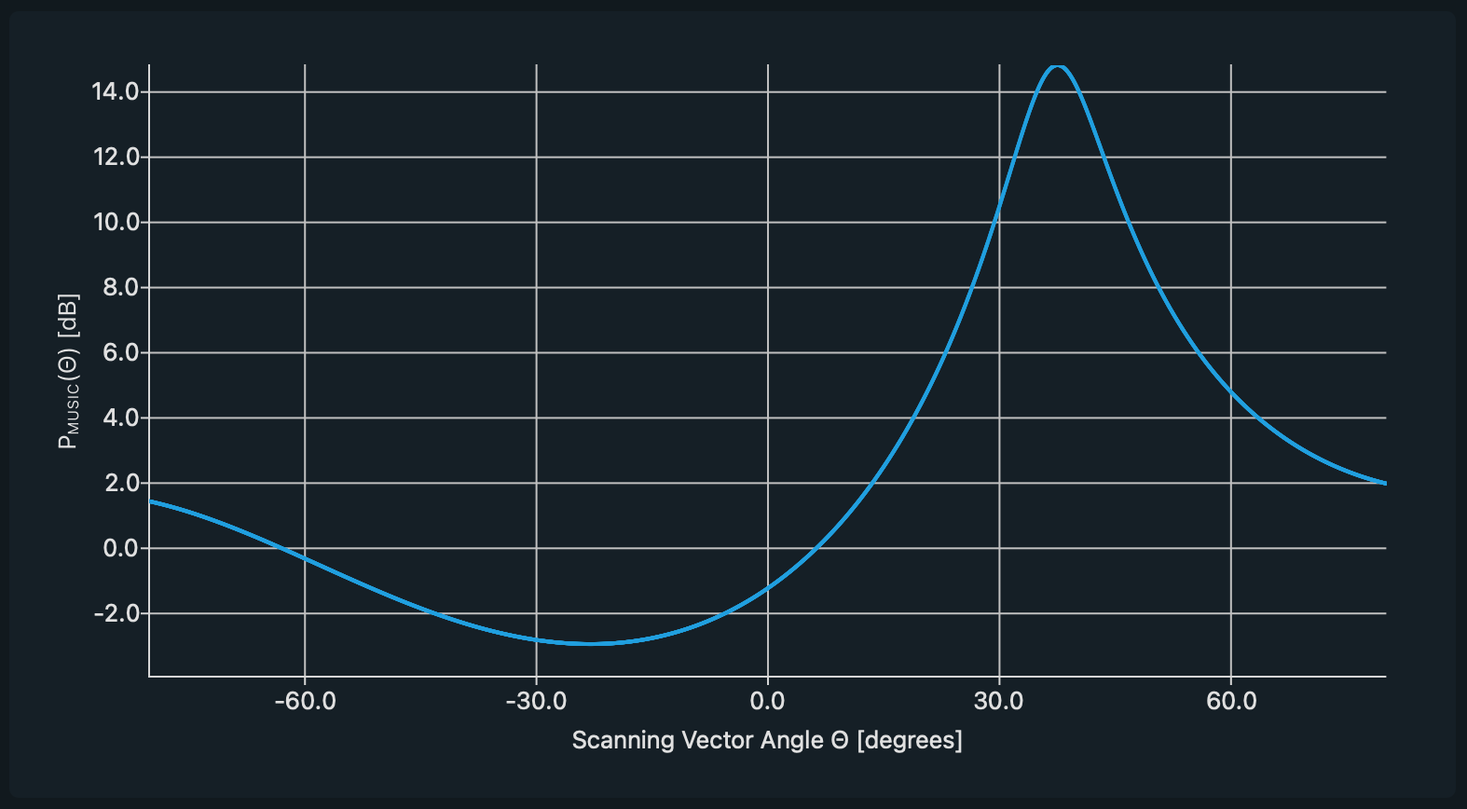
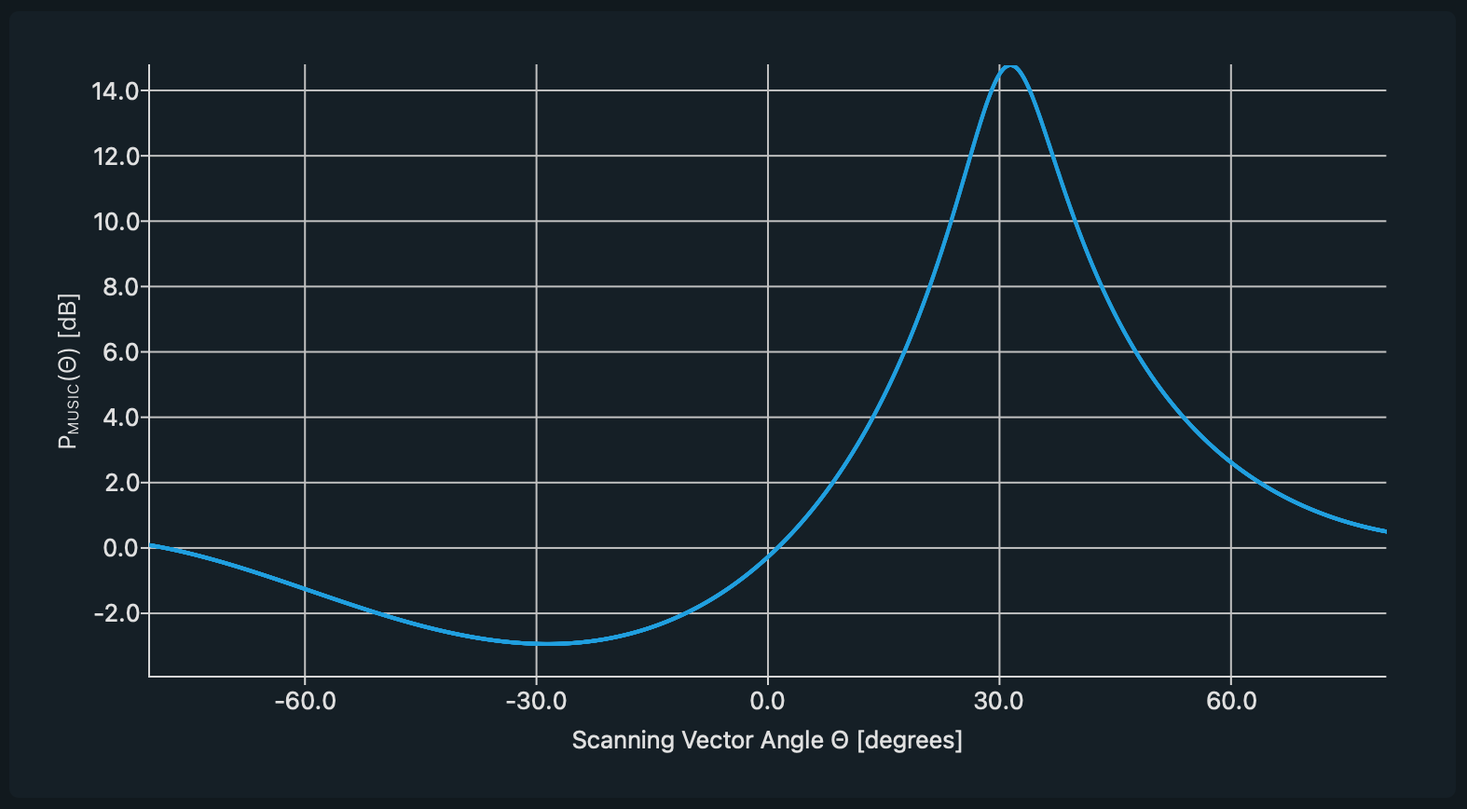
New Measurement

Changed region(s): [[0.0934, 0.0622, 0.9339, 0.8088]]

diff --git a/matlab/music_125MHz_M256_1m_30deg/cfr.m b/matlab/music_125MHz_M256_1m_30deg/cfr.m
@@ -1,116 +1,116 @@
 % Auto-generated MATLAB script
 clear;
-CH0_4516 = [ ...
+CH0_4514 = [ ...
 0 + 1i*0, 0 + 1i*0, 0 + 1i*0, 0 + 1i*0, 0 + 1i*0,  ...
 0 + 1i*0, 0 + 1i*0, 0 + 1i*0, 0 + 1i*0, 0 + 1i*0,  ...
 0 + 1i*0, 0 + 1i*0, 0 + 1i*0, 0 + 1i*0, 0 + 1i*0,  ...
 0 + 1i*0, 0 + 1i*0, 0 + 1i*0, 0 + 1i*0, 0 + 1i*0,  ...
 0 + 1i*0, 0 + 1i*0, 0 + 1i*0, 0 + 1i*0, 0 + 1i*0,  ...
-0 + 1i*0, 1.577 + 1i*-0.0117661, 1.61597 + 1i*-0.0276387, 1.65416 + 1i*-0.0439596, 1.69158 + 1i*-0.0606961,  ...
-1.72824 + 1i*-0.0778172, 1.76415 + 1i*-0.0952935, 1.79932 + 1i*-0.113097, 1.83376 + 1i*-0.131201, 1.86748 + 1i*-0.14958,  ...
-1.90049 + 1i*-0.16821, 1.9328 + 1i*-0.187069, 1.96442 + 1i*-0.206136, 1.99536 + 1i*-0.225389, 2.02563 + 1i*-0.24481,  ...
-2.05525 + 1i*-0.264381, 2.08422 + 1i*-0.284085, 2.11256 + 1i*-0.303906, 2.14027 + 1i*-0.323829, 2.16737 + 1i*-0.343841,  ...
-2.19387 + 1i*-0.363927, 2.21978 + 1i*-0.384077, 2.2451 + 1i*-0.404278, 2.26986 + 1i*-0.42452, 2.29405 + 1i*-0.444794,  ...
-2.3177 + 1i*-0.46509, 2.3408 + 1i*-0.4854, 2.36338 + 1i*-0.505717, 2.38543 + 1i*-0.526033, 2.40696 + 1i*-0.546341,  ...
-2.428 + 1i*-0.566637, 2.44854 + 1i*-0.586915, 2.46859 + 1i*-0.607169, 2.48816 + 1i*-0.627397, 2.50726 + 1i*-0.647593,  ...
-2.5259 + 1i*-0.667755, 2.54409 + 1i*-0.687879, 2.56182 + 1i*-0.707964, 2.57912 + 1i*-0.728007, 2.59598 + 1i*-0.748006,  ...
-2.61241 + 1i*-0.767959, 2.62842 + 1i*-0.787866, 2.64401 + 1i*-0.807726, 2.65919 + 1i*-0.827537, 2.67397 + 1i*-0.847301,  ...
-2.68835 + 1i*-0.867015, 2.70233 + 1i*-0.886682, 2.71592 + 1i*-0.9063, 2.72912 + 1i*-0.92587, 2.74194 + 1i*-0.945394,  ...
-2.75438 + 1i*-0.964871, 2.76645 + 1i*-0.984303, 2.77814 + 1i*-1.00369, 2.78947 + 1i*-1.02303, 2.80043 + 1i*-1.04234,  ...
-2.81103 + 1i*-1.0616, 2.82127 + 1i*-1.08082, 2.83115 + 1i*-1.1, 2.84068 + 1i*-1.11915, 2.84984 + 1i*-1.13826,  ...
-2.85866 + 1i*-1.15734, 2.86713 + 1i*-1.17639, 2.87524 + 1i*-1.19541, 2.88301 + 1i*-1.21439, 2.89043 + 1i*-1.23335,  ...
-2.8975 + 1i*-1.25228, 2.90422 + 1i*-1.27119, 2.9106 + 1i*-1.29007, 2.91662 + 1i*-1.30894, 2.9223 + 1i*-1.32778,  ...
-2.92764 + 1i*-1.34659, 2.93262 + 1i*-1.36539, 2.93726 + 1i*-1.38417, 2.94155 + 1i*-1.40294, 2.94548 + 1i*-1.42168,  ...
-2.94907 + 1i*-1.44041, 2.9523 + 1i*-1.45912, 2.95518 + 1i*-1.47782, 2.9577 + 1i*-1.4965, 2.95987 + 1i*-1.51516,  ...
-2.96167 + 1i*-1.53381, 2.96312 + 1i*-1.55243, 2.9642 + 1i*-1.57104, 2.96492 + 1i*-1.58964, 2.96527 + 1i*-1.60821,  ...
-2.96526 + 1i*-1.62676, 2.96487 + 1i*-1.64528, 2.9641 + 1i*-1.66379, 2.96296 + 1i*-1.68226, 2.96144 + 1i*-1.70071,  ...
-2.95954 + 1i*-1.71913, 2.95726 + 1i*-1.73751, 2.95459 + 1i*-1.75586, 2.95152 + 1i*-1.77417, 2.94807 + 1i*-1.79244,  ...
-2.94422 + 1i*-1.81066, 2.93997 + 1i*-1.82883, 2.93532 + 1i*-1.84694, 2.93026 + 1i*-1.865, 2.9248 + 1i*-1.88299,  ...
-2.91892 + 1i*-1.90091, 2.91264 + 1i*-1.91877, 2.90593 + 1i*-1.93654, 0 + 1i*0, 2.89127 + 1i*-1.97182,  ...
-2.8833 + 1i*-1.98932, 2.87491 + 1i*-2.00671, 2.86608 + 1i*-2.02399, 2.85682 + 1i*-2.04116, 2.84713 + 1i*-2.0582,  ...
-2.837 + 1i*-2.0751, 2.82643 + 1i*-2.09186, 2.81542 + 1i*-2.10847, 2.80397 + 1i*-2.12492, 2.79206 + 1i*-2.1412,  ...
-2.77972 + 1i*-2.1573, 2.76692 + 1i*-2.17322, 2.75367 + 1i*-2.18893, 2.73997 + 1i*-2.20444, 2.72581 + 1i*-2.21973,  ...
-2.7112 + 1i*-2.23478, 2.69613 + 1i*-2.2496, 2.68061 + 1i*-2.26416, 2.66463 + 1i*-2.27845, 2.6482 + 1i*-2.29247,  ...
-2.63131 + 1i*-2.30619, 2.61396 + 1i*-2.31962, 2.59615 + 1i*-2.33272, 2.57789 + 1i*-2.3455, 2.55918 + 1i*-2.35793,  ...
-2.54001 + 1i*-2.37, 2.52039 + 1i*-2.3817, 2.50032 + 1i*-2.39302, 2.47981 + 1i*-2.40393, 2.45885 + 1i*-2.41443,  ...
-2.43744 + 1i*-2.4245, 2.4156 + 1i*-2.43412, 2.39332 + 1i*-2.44327, 2.37061 + 1i*-2.45195, 2.34747 + 1i*-2.46013,  ...
-2.32391 + 1i*-2.4678, 2.29993 + 1i*-2.47494, 2.27553 + 1i*-2.48153, 2.25073 + 1i*-2.48757, 2.22552 + 1i*-2.49302,  ...
-2.19992 + 1i*-2.49788, 2.17393 + 1i*-2.50212, 2.14755 + 1i*-2.50573, 2.1208 + 1i*-2.50869, 2.09368 + 1i*-2.51098,  ...
-2.06621 + 1i*-2.51258, 2.03838 + 1i*-2.51349, 2.01021 + 1i*-2.51367, 1.9817 + 1i*-2.5131, 1.95287 + 1i*-2.51178,  ...
-1.92373 + 1i*-2.50969, 1.89428 + 1i*-2.50679, 1.86454 + 1i*-2.50309, 1.83452 + 1i*-2.49854, 1.80423 + 1i*-2.49315,  ...
-1.77368 + 1i*-2.48689, 1.74289 + 1i*-2.47974, 1.71186 + 1i*-2.47168, 1.6806 + 1i*-2.46269, 1.64914 + 1i*-2.45276,  ...
-1.61749 + 1i*-2.44187, 1.58565 + 1i*-2.43, 1.55364 + 1i*-2.41713, 1.52148 + 1i*-2.40324, 1.48918 + 1i*-2.38832,  ...
-1.45676 + 1i*-2.37234, 1.42422 + 1i*-2.35529, 1.39159 + 1i*-2.33716, 1.35888 + 1i*-2.31792, 1.3261 + 1i*-2.29755,  ...
-1.29328 + 1i*-2.27605, 1.26042 + 1i*-2.25339, 1.22754 + 1i*-2.22955, 1.19466 + 1i*-2.20452, 1.16178 + 1i*-2.17829,  ...
-1.12894 + 1i*-2.15083, 1.09614 + 1i*-2.12213, 1.0634 + 1i*-2.09218, 1.03073 + 1i*-2.06096, 0.998145 + 1i*-2.02845,  ...
-0.965666 + 1i*-1.99464, 0.933305 + 1i*-1.95951, 0.901077 + 1i*-1.92305, 0.868994 + 1i*-1.88525, 0.837072 + 1i*-1.84608,  ...
-0.805322 + 1i*-1.80554, 0.773759 + 1i*-1.76362, 0.742393 + 1i*-1.72029, 0.711238 + 1i*-1.67555, 0.680304 + 1i*-1.62938,  ...
-0.649602 + 1i*-1.58176, 0.619142 + 1i*-1.5327, 0.588933 + 1i*-1.48217, 0.558984 + 1i*-1.43016, 0.529302 + 1i*-1.37666,  ...
-0.499894 + 1i*-1.32166, 0.470765 + 1i*-1.26514, 0.44192 + 1i*-1.20709, 0.413363 + 1i*-1.14751, 0.385096 + 1i*-1.08638,  ...
-0.357121 + 1i*-1.02369, 0 + 1i*0, 0 + 1i*0, 0 + 1i*0, 0 + 1i*0,  ...
-0 + 1i*0, 0 + 1i*0, 0 + 1i*0, 0 + 1i*0, 0 + 1i*0,  ...
-0 + 1i*0, 0 + 1i*0, 0 + 1i*0, 0 + 1i*0, 0 + 1i*0,  ...
-0 + 1i*0, 0 + 1i*0, 0 + 1i*0, 0 + 1i*0, 0 + 1i*0,  ...
-0 + 1i*0, 0 + 1i*0, 0 + 1i*0, 0 + 1i*0, 0 + 1i*0,  ...
-0 + 1i*0];
-CH1_4515 = [ ...
-0 + 1i*0, 0 + 1i*0, 0 + 1i*0, 0 + 1i*0, 0 + 1i*0,  ...
-0 + 1i*0, 0 + 1i*0, 0 + 1i*0, 0 + 1i*0, 0 + 1i*0,  ...
-0 + 1i*0, 0 + 1i*0, 0 + 1i*0, 0 + 1i*0, 0 + 1i*0,  ...
-0 + 1i*0, 0 + 1i*0, 0 + 1i*0, 0 + 1i*0, 0 + 1i*0,  ...
-0 + 1i*0, 0 + 1i*0, 0 + 1i*0, 0 + 1i*0, 0 + 1i*0,  ...
-0 + 1i*0, -0.965886 + 1i*0.848268, -1.00429 + 1i*0.855611, -1.04262 + 1i*0.861718, -1.08085 + 1i*0.866611,  ...
--1.11895 + 1i*0.870312, -1.1569 + 1i*0.872843, -1.19466 + 1i*0.874228, -1.23221 + 1i*0.874488, -1.26954 + 1i*0.873648,  ...
--1.30661 + 1i*0.871727, -1.34341 + 1i*0.868751, -1.37992 + 1i*0.86474, -1.41611 + 1i*0.859716, -1.45198 + 1i*0.853702,  ...
--1.4875 + 1i*0.846719, -1.52265 + 1i*0.83879, -1.55743 + 1i*0.829935, -1.59181 + 1i*0.820175, -1.62578 + 1i*0.809531,  ...
--1.65933 + 1i*0.798025, -1.69244 + 1i*0.785677, -1.72511 + 1i*0.772507, -1.75732 + 1i*0.758534, -1.78906 + 1i*0.74378,  ...
--1.82033 + 1i*0.728263, -1.8511 + 1i*0.712002, -1.88138 + 1i*0.695016, -1.91115 + 1i*0.677325, -1.94041 + 1i*0.658945,  ...
--1.96915 + 1i*0.639896, -1.99736 + 1i*0.620195, -2.02503 + 1i*0.599859, -2.05217 + 1i*0.578906, -2.07875 + 1i*0.557353,  ...
--2.10479 + 1i*0.535217, -2.13026 + 1i*0.512513, -2.15517 + 1i*0.489258, -2.17951 + 1i*0.465467, -2.20328 + 1i*0.441157,  ...
--2.22648 + 1i*0.416343, -2.2491 + 1i*0.391039, -2.27113 + 1i*0.365261, -2.29257 + 1i*0.339024, -2.31343 + 1i*0.31234,  ...
--2.33369 + 1i*0.285226, -2.35336 + 1i*0.257695, -2.37242 + 1i*0.229759, -2.39089 + 1i*0.201434, -2.40876 + 1i*0.172732,  ...
--2.42602 + 1i*0.143666, -2.44267 + 1i*0.11425, -2.45871 + 1i*0.0844948, -2.47414 + 1i*0.0544145, -2.48896 + 1i*0.024022,  ...
--2.50317 + 1i*-0.00667188, -2.51676 + 1i*-0.0376544, -2.52973 + 1i*-0.0689133, -2.54208 + 1i*-0.100436, -2.55381 + 1i*-0.132213,  ...
--2.56493 + 1i*-0.16423, -2.57542 + 1i*-0.196479, -2.58528 + 1i*-0.228944, -2.59452 + 1i*-0.261616, -2.60314 + 1i*-0.294485,  ...
--2.61113 + 1i*-0.327538, -2.61849 + 1i*-0.360765, -2.62522 + 1i*-0.394154, -2.63132 + 1i*-0.427692, -2.6368 + 1i*-0.461372,  ...
--2.64164 + 1i*-0.495181, -2.64585 + 1i*-0.529107, -2.64943 + 1i*-0.563141, -2.65237 + 1i*-0.597271, -2.65468 + 1i*-0.631485,  ...
--2.65636 + 1i*-0.665775, -2.6574 + 1i*-0.700127, -2.6578 + 1i*-0.734533, -2.65757 + 1i*-0.768978, -2.6567 + 1i*-0.803454,  ...
--2.65519 + 1i*-0.837948, -2.65305 + 1i*-0.87245, -2.65027 + 1i*-0.906948, -2.64685 + 1i*-0.941432, -2.64279 + 1i*-0.97589,  ...
--2.63809 + 1i*-1.01031, -2.63276 + 1i*-1.04468, -2.62678 + 1i*-1.07899, -2.62017 + 1i*-1.11322, -2.61292 + 1i*-1.14737,  ...
--2.60503 + 1i*-1.18143, -2.59651 + 1i*-1.21537, -2.58734 + 1i*-1.2492, -2.57754 + 1i*-1.28289, -2.56711 + 1i*-1.31643,  ...
--2.55604 + 1i*-1.34982, -2.54434 + 1i*-1.38304, -2.532 + 1i*-1.41607, -2.51903 + 1i*-1.44891, -2.50544 + 1i*-1.48153,  ...
--2.49121 + 1i*-1.51393, -2.47636 + 1i*-1.5461, -2.46089 + 1i*-1.57802, 0 + 1i*0, -2.42807 + 1i*-1.64105,  ...
--2.41074 + 1i*-1.67213, -2.39279 + 1i*-1.70291, -2.37423 + 1i*-1.73337, -2.35506 + 1i*-1.7635, -2.33529 + 1i*-1.79328,  ...
--2.31492 + 1i*-1.8227, -2.29395 + 1i*-1.85173, -2.2724 + 1i*-1.88038, -2.25025 + 1i*-1.90862, -2.22752 + 1i*-1.93643,  ...
--2.20422 + 1i*-1.96381, -2.18034 + 1i*-1.99074, -2.1559 + 1i*-2.01719, -2.1309 + 1i*-2.04316, -2.10535 + 1i*-2.06863,  ...
--2.07925 + 1i*-2.09359, -2.05261 + 1i*-2.11801, -2.02545 + 1i*-2.14189, -1.99776 + 1i*-2.1652, -1.96956 + 1i*-2.18793,  ...
--1.94086 + 1i*-2.21006, -1.91166 + 1i*-2.23158, -1.88198 + 1i*-2.25248, -1.85182 + 1i*-2.27272, -1.8212 + 1i*-2.29231,  ...
--1.79013 + 1i*-2.31121, -1.75861 + 1i*-2.32943, -1.72667 + 1i*-2.34693, -1.69431 + 1i*-2.3637, -1.66155 + 1i*-2.37973,  ...
--1.62839 + 1i*-2.395, -1.59487 + 1i*-2.40949, -1.56098 + 1i*-2.42319, -1.52675 + 1i*-2.43607, -1.49218 + 1i*-2.44814,  ...
--1.45731 + 1i*-2.45936, -1.42214 + 1i*-2.46973, -1.38669 + 1i*-2.47922, -1.35098 + 1i*-2.48782, -1.31502 + 1i*-2.49552,  ...
--1.27884 + 1i*-2.5023, -1.24246 + 1i*-2.50814, -1.2059 + 1i*-2.51303, -1.16917 + 1i*-2.51696, -1.1323 + 1i*-2.51991,  ...
--1.09531 + 1i*-2.52187, -1.05822 + 1i*-2.52282, -1.02106 + 1i*-2.52275, -0.983854 + 1i*-2.52164, -0.946616 + 1i*-2.51949,  ...
--0.909377 + 1i*-2.51628, -0.872162 + 1i*-2.51199, -0.834998 + 1i*-2.50663, -0.797909 + 1i*-2.50016, -0.760924 + 1i*-2.49259,  ...
--0.724072 + 1i*-2.4839, -0.687378 + 1i*-2.47409, -0.650872 + 1i*-2.46313, -0.614585 + 1i*-2.45103, -0.578546 + 1i*-2.43777,  ...
--0.542783 + 1i*-2.42335, -0.507331 + 1i*-2.40776, -0.472219 + 1i*-2.39099, -0.437479 + 1i*-2.37303, -0.403146 + 1i*-2.35388,  ...
--0.36925 + 1i*-2.33354, -0.335825 + 1i*-2.31199, -0.302909 + 1i*-2.28923, -0.270529 + 1i*-2.26527, -0.238727 + 1i*-2.2401,  ...
--0.207534 + 1i*-2.21371, -0.176985 + 1i*-2.1861, -0.147121 + 1i*-2.15728, -0.117974 + 1i*-2.12724, -0.0895827 + 1i*-2.09599,  ...
--0.0619836 + 1i*-2.06352, -0.0352148 + 1i*-2.02984, -0.00931485 + 1i*-1.99495, 0.0156794 + 1i*-1.95886, 0.039728 + 1i*-1.92157,  ...
-0.0627962 + 1i*-1.88308, 0.0848399 + 1i*-1.84341, 0.105822 + 1i*-1.80255, 0.125706 + 1i*-1.76053, 0.144448 + 1i*-1.71734,  ...
-0.16201 + 1i*-1.67299, 0.178353 + 1i*-1.6275, 0.193437 + 1i*-1.58089, 0.207221 + 1i*-1.53315, 0.219667 + 1i*-1.48431,  ...
-0.230733 + 1i*-1.43437, 0.24038 + 1i*-1.38336, 0.248567 + 1i*-1.33129, 0.255257 + 1i*-1.27817, 0.260405 + 1i*-1.22403,  ...
-0.263977 + 1i*-1.16888, 0.265929 + 1i*-1.11275, 0.266224 + 1i*-1.05564, 0.264821 + 1i*-0.997593, 0.261683 + 1i*-0.938618,  ...
-0.256769 + 1i*-0.878741, 0 + 1i*0, 0 + 1i*0, 0 + 1i*0, 0 + 1i*0,  ...
+0 + 1i*0, -1.35205 + 1i*0.845049, -1.38642 + 1i*0.867046, -1.42011 + 1i*0.888887, -1.45312 + 1i*0.910585,  ...
+-1.48546 + 1i*0.932153, -1.51714 + 1i*0.953603, -1.54815 + 1i*0.974946, -1.57851 + 1i*0.996194, -1.60821 + 1i*1.01735,  ...
+-1.63726 + 1i*1.03844, -1.66567 + 1i*1.05946, -1.69344 + 1i*1.08041, -1.72057 + 1i*1.10132, -1.74707 + 1i*1.12218,  ...
+-1.77295 + 1i*1.143, -1.79821 + 1i*1.16378, -1.82286 + 1i*1.18454, -1.8469 + 1i*1.20527, -1.87033 + 1i*1.22598,  ...
+-1.89317 + 1i*1.24668, -1.91541 + 1i*1.26737, -1.93707 + 1i*1.28804, -1.95815 + 1i*1.30871, -1.97865 + 1i*1.32937,  ...
+-1.99859 + 1i*1.35003, -2.01796 + 1i*1.37068, -2.03678 + 1i*1.39134, -2.05504 + 1i*1.41199, -2.07276 + 1i*1.43264,  ...
+-2.08994 + 1i*1.4533, -2.10658 + 1i*1.47395, -2.1227 + 1i*1.4946, -2.13829 + 1i*1.51525, -2.15337 + 1i*1.53589,  ...
+-2.16794 + 1i*1.55654, -2.18201 + 1i*1.57717, -2.19558 + 1i*1.5978, -2.20865 + 1i*1.61842, -2.22124 + 1i*1.63903,  ...
+-2.23335 + 1i*1.65962, -2.24498 + 1i*1.6802, -2.25615 + 1i*1.70076, -2.26685 + 1i*1.72129, -2.2771 + 1i*1.74181,  ...
+-2.28689 + 1i*1.76229, -2.29624 + 1i*1.78274, -2.30515 + 1i*1.80316, -2.31363 + 1i*1.82354, -2.32168 + 1i*1.84388,  ...
+-2.32931 + 1i*1.86418, -2.33652 + 1i*1.88443, -2.34333 + 1i*1.90462, -2.34973 + 1i*1.92476, -2.35572 + 1i*1.94484,  ...
+-2.36133 + 1i*1.96485, -2.36655 + 1i*1.98479, -2.37139 + 1i*2.00466, -2.37585 + 1i*2.02446, -2.37994 + 1i*2.04417,  ...
+-2.38366 + 1i*2.06379, -2.38703 + 1i*2.08333, -2.39003 + 1i*2.10277, -2.3927 + 1i*2.12211, -2.39501 + 1i*2.14135,  ...
+-2.39699 + 1i*2.16047, -2.39864 + 1i*2.17949, -2.39995 + 1i*2.19839, -2.40095 + 1i*2.21716, -2.40162 + 1i*2.23581,  ...
+-2.40198 + 1i*2.25432, -2.40204 + 1i*2.2727, -2.40179 + 1i*2.29093, -2.40125 + 1i*2.30902, -2.40041 + 1i*2.32695,  ...
+-2.39928 + 1i*2.34473, -2.39787 + 1i*2.36235, -2.39618 + 1i*2.3798, -2.39421 + 1i*2.39708, -2.39198 + 1i*2.41419,  ...
+-2.38948 + 1i*2.43111, -2.38672 + 1i*2.44784, -2.3837 + 1i*2.46439, -2.38043 + 1i*2.48074, -2.37691 + 1i*2.49688,  ...
+-2.37314 + 1i*2.51282, -2.36914 + 1i*2.52855, -2.3649 + 1i*2.54406, -2.36042 + 1i*2.55935, -2.35572 + 1i*2.57441,  ...
+-2.35079 + 1i*2.58924, -2.34564 + 1i*2.60383, -2.34028 + 1i*2.61818, -2.33469 + 1i*2.63229, -2.3289 + 1i*2.64613,  ...
+-2.3229 + 1i*2.65972, -2.31669 + 1i*2.67305, -2.31028 + 1i*2.68611, -2.30368 + 1i*2.69889, -2.29687 + 1i*2.71139,  ...
+-2.28988 + 1i*2.72361, -2.28269 + 1i*2.73553, -2.27531 + 1i*2.74716, 0 + 1i*0, -2.26001 + 1i*2.76951,  ...
+-2.25208 + 1i*2.78022, -2.24398 + 1i*2.79061, -2.23569 + 1i*2.80068, -2.22724 + 1i*2.81042, -2.21861 + 1i*2.81982,  ...
+-2.20981 + 1i*2.82888, -2.20083 + 1i*2.83759, -2.19169 + 1i*2.84595, -2.18239 + 1i*2.85395, -2.17291 + 1i*2.86159,  ...
+-2.16327 + 1i*2.86886, -2.15347 + 1i*2.87575, -2.14351 + 1i*2.88225, -2.13338 + 1i*2.88837, -2.12309 + 1i*2.89409,  ...
+-2.11264 + 1i*2.89941, -2.10203 + 1i*2.90433, -2.09126 + 1i*2.90883, -2.08033 + 1i*2.91291, -2.06924 + 1i*2.91656,  ...
+-2.05798 + 1i*2.91978, -2.04657 + 1i*2.92255, -2.035 + 1i*2.92489, -2.02326 + 1i*2.92676, -2.01136 + 1i*2.92818,  ...
+-1.9993 + 1i*2.92913, -1.98708 + 1i*2.92961, -1.97469 + 1i*2.9296, -1.96213 + 1i*2.92911, -1.94941 + 1i*2.92812,  ...
+-1.93652 + 1i*2.92662, -1.92346 + 1i*2.92462, -1.91022 + 1i*2.9221, -1.89682 + 1i*2.91905, -1.88324 + 1i*2.91547,  ...
+-1.86948 + 1i*2.91135, -1.85554 + 1i*2.90668, -1.84142 + 1i*2.90145, -1.82712 + 1i*2.89566, -1.81262 + 1i*2.88929,  ...
+-1.79795 + 1i*2.88235, -1.78308 + 1i*2.87481, -1.76801 + 1i*2.86668, -1.75275 + 1i*2.85794, -1.73729 + 1i*2.84859,  ...
+-1.72162 + 1i*2.83861, -1.70575 + 1i*2.828, -1.68967 + 1i*2.81674, -1.67337 + 1i*2.80484, -1.65686 + 1i*2.79228,  ...
+-1.64013 + 1i*2.77904, -1.62318 + 1i*2.76513, -1.606 + 1i*2.75053, -1.58859 + 1i*2.73523, -1.57094 + 1i*2.71922,  ...
+-1.55306 + 1i*2.7025, -1.53494 + 1i*2.68504, -1.51656 + 1i*2.66685, -1.49794 + 1i*2.6479, -1.47907 + 1i*2.6282,  ...
+-1.45994 + 1i*2.60772, -1.44055 + 1i*2.58647, -1.42089 + 1i*2.56441, -1.40096 + 1i*2.54156, -1.38076 + 1i*2.51789,  ...
+-1.36028 + 1i*2.49339, -1.33953 + 1i*2.46805, -1.31848 + 1i*2.44185, -1.29715 + 1i*2.4148, -1.27553 + 1i*2.38686,  ...
+-1.25362 + 1i*2.35804, -1.2314 + 1i*2.32832, -1.20888 + 1i*2.29768, -1.18606 + 1i*2.26611, -1.16293 + 1i*2.2336,  ...
+-1.13948 + 1i*2.20013, -1.11573 + 1i*2.16569, -1.09165 + 1i*2.13027, -1.06726 + 1i*2.09384, -1.04255 + 1i*2.05641,  ...
+-1.01751 + 1i*2.01794, -0.99215 + 1i*1.97844, -0.966464 + 1i*1.93787, -0.940451 + 1i*1.89622, -0.91411 + 1i*1.85349,  ...
+-0.887441 + 1i*1.80964, -0.860443 + 1i*1.76467, -0.833119 + 1i*1.71856, -0.805467 + 1i*1.67129, -0.777489 + 1i*1.62284,  ...
+-0.749187 + 1i*1.57319, -0.720563 + 1i*1.52233, -0.69162 + 1i*1.47024, -0.66236 + 1i*1.4169, -0.632788 + 1i*1.36229,  ...
+-0.602908 + 1i*1.30638, -0.572724 + 1i*1.24917, -0.542244 + 1i*1.19062, -0.511471 + 1i*1.13072, -0.480415 + 1i*1.06945,  ...
+-0.449083 + 1i*1.00678, 0 + 1i*0, 0 + 1i*0, 0 + 1i*0, 0 + 1i*0,  ...
 0 + 1i*0, 0 + 1i*0, 0 + 1i*0, 0 + 1i*0, 0 + 1i*0,  ...
 0 + 1i*0, 0 + 1i*0, 0 + 1i*0, 0 + 1i*0, 0 + 1i*0,  ...
 0 + 1i*0, 0 + 1i*0, 0 + 1i*0, 0 + 1i*0, 0 + 1i*0,  ...
 0 + 1i*0, 0 + 1i*0, 0 + 1i*0, 0 + 1i*0, 0 + 1i*0,  ...
 0 + 1i*0];
-figure;subplot(2,1,1); hold on;plot(abs(CH0_4516), 'DisplayName', 'CH0_4516');title('Channel Frequency Response Gain'); legend; grid on;
-subplot(2,1,2); hold on;plot(angle(CH0_4516), 'DisplayName', 'CH0_4516');title('Channel Frequency Response Phase'); legend; grid on;
-figure;plot(real(CH0_4516), imag(CH0_4516), '.', 'DisplayName', 'CH0_4516'); hold on;title('CFR'); xlabel('Real'); ylabel('Imag'); axis equal; legend; grid on;
+CH1_4514 = [ ...
+0 + 1i*0, 0 + 1i*0, 0 + 1i*0, 0 + 1i*0, 0 + 1i*0,  ...
+0 + 1i*0, 0 + 1i*0, 0 + 1i*0, 0 + 1i*0, 0 + 1i*0,  ...
+0 + 1i*0, 0 + 1i*0, 0 + 1i*0, 0 + 1i*0, 0 + 1i*0,  ...
+0 + 1i*0, 0 + 1i*0, 0 + 1i*0, 0 + 1i*0, 0 + 1i*0,  ...
+0 + 1i*0, 0 + 1i*0, 0 + 1i*0, 0 + 1i*0, 0 + 1i*0,  ...
+0 + 1i*0, 1.195 + 1i*0.320236, 1.22236 + 1i*0.341075, 1.249 + 1i*0.362002, 1.27495 + 1i*0.382983,  ...
+1.30023 + 1i*0.40399, 1.32486 + 1i*0.424992, 1.34885 + 1i*0.445965, 1.37223 + 1i*0.466883, 1.39502 + 1i*0.487724,  ...
+1.41723 + 1i*0.508467, 1.43889 + 1i*0.529093, 1.46002 + 1i*0.549583, 1.48062 + 1i*0.56992, 1.50072 + 1i*0.590091,  ...
+1.52035 + 1i*0.61008, 1.5395 + 1i*0.629876, 1.55821 + 1i*0.649467, 1.57649 + 1i*0.668843, 1.59435 + 1i*0.687994,  ...
+1.61181 + 1i*0.706912, 1.62888 + 1i*0.72559, 1.64557 + 1i*0.744022, 1.66191 + 1i*0.762201, 1.6779 + 1i*0.780124,  ...
+1.69356 + 1i*0.797786, 1.70889 + 1i*0.815184, 1.72392 + 1i*0.832315, 1.73864 + 1i*0.849177, 1.75308 + 1i*0.86577,  ...
+1.76723 + 1i*0.882091, 1.78112 + 1i*0.898141, 1.79474 + 1i*0.913921, 1.80812 + 1i*0.92943, 1.82124 + 1i*0.94467,  ...
+1.83413 + 1i*0.959642, 1.84679 + 1i*0.974348, 1.85923 + 1i*0.98879, 1.87145 + 1i*1.00297, 1.88346 + 1i*1.01689,  ...
+1.89527 + 1i*1.03056, 1.90687 + 1i*1.04398, 1.91828 + 1i*1.05714, 1.9295 + 1i*1.07007, 1.94053 + 1i*1.08275,  ...
+1.95138 + 1i*1.0952, 1.96205 + 1i*1.10741, 1.97254 + 1i*1.1194, 1.98286 + 1i*1.13116, 1.993 + 1i*1.14271,  ...
+2.00298 + 1i*1.15405, 2.01279 + 1i*1.16518, 2.02243 + 1i*1.1761, 2.03191 + 1i*1.18683, 2.04123 + 1i*1.19736,  ...
+2.05038 + 1i*1.20771, 2.05937 + 1i*1.21788, 2.06821 + 1i*1.22787, 2.07688 + 1i*1.23769, 2.08539 + 1i*1.24735,  ...
+2.09373 + 1i*1.25684, 2.10192 + 1i*1.26618, 2.10995 + 1i*1.27537, 2.11781 + 1i*1.28442, 2.12551 + 1i*1.29333,  ...
+2.13305 + 1i*1.30211, 2.14042 + 1i*1.31075, 2.14763 + 1i*1.31928, 2.15467 + 1i*1.32769, 2.16154 + 1i*1.33598,  ...
+2.16823 + 1i*1.34417, 2.17476 + 1i*1.35225, 2.18111 + 1i*1.36024, 2.18729 + 1i*1.36813, 2.19328 + 1i*1.37593,  ...
+2.1991 + 1i*1.38365, 2.20473 + 1i*1.39129, 2.21018 + 1i*1.39885, 2.21543 + 1i*1.40634, 2.2205 + 1i*1.41376,  ...
+2.22538 + 1i*1.42112, 2.23005 + 1i*1.42842, 2.23453 + 1i*1.43566, 2.23881 + 1i*1.44284, 2.24289 + 1i*1.44998,  ...
+2.24675 + 1i*1.45707, 2.25041 + 1i*1.46411, 2.25385 + 1i*1.47111, 2.25707 + 1i*1.47808, 2.26008 + 1i*1.485,  ...
+2.26286 + 1i*1.49189, 2.26541 + 1i*1.49875, 2.26773 + 1i*1.50557, 2.26982 + 1i*1.51237, 2.27167 + 1i*1.51914,  ...
+2.27328 + 1i*1.52587, 2.27465 + 1i*1.53259, 2.27577 + 1i*1.53927, 2.27663 + 1i*1.54593, 2.27725 + 1i*1.55256,  ...
+2.2776 + 1i*1.55917, 2.27769 + 1i*1.56575, 2.27751 + 1i*1.57231, 0 + 1i*0, 2.27635 + 1i*1.58533,  ...
+2.27535 + 1i*1.59179, 2.27408 + 1i*1.59823, 2.27252 + 1i*1.60463, 2.27067 + 1i*1.61099, 2.26853 + 1i*1.61732,  ...
+2.26609 + 1i*1.6236, 2.26336 + 1i*1.62984, 2.26032 + 1i*1.63603, 2.25698 + 1i*1.64217, 2.25333 + 1i*1.64826,  ...
+2.24937 + 1i*1.65428, 2.24509 + 1i*1.66024, 2.24049 + 1i*1.66614, 2.23557 + 1i*1.67195, 2.23032 + 1i*1.67769,  ...
+2.22475 + 1i*1.68335, 2.21884 + 1i*1.68891, 2.2126 + 1i*1.69438, 2.20602 + 1i*1.69974, 2.1991 + 1i*1.705,  ...
+2.19183 + 1i*1.71013, 2.18422 + 1i*1.71514, 2.17627 + 1i*1.72002, 2.16796 + 1i*1.72476, 2.1593 + 1i*1.72934,  ...
+2.15028 + 1i*1.73377, 2.14091 + 1i*1.73804, 2.13118 + 1i*1.74212, 2.12109 + 1i*1.74602, 2.11063 + 1i*1.74973,  ...
+2.09982 + 1i*1.75323, 2.08863 + 1i*1.75651, 2.07709 + 1i*1.75957, 2.06517 + 1i*1.76239, 2.05289 + 1i*1.76496,  ...
+2.04024 + 1i*1.76727, 2.02722 + 1i*1.76931, 2.01383 + 1i*1.77106, 2.00007 + 1i*1.77252, 1.98594 + 1i*1.77367,  ...
+1.97144 + 1i*1.77449, 1.95658 + 1i*1.77499, 1.94134 + 1i*1.77513, 1.92574 + 1i*1.77492, 1.90977 + 1i*1.77433,  ...
+1.89344 + 1i*1.77335, 1.87674 + 1i*1.77197, 1.85968 + 1i*1.77017, 1.84226 + 1i*1.76794, 1.82449 + 1i*1.76527,  ...
+1.80635 + 1i*1.76213, 1.78786 + 1i*1.75853, 1.76902 + 1i*1.75443, 1.74983 + 1i*1.74983, 1.73029 + 1i*1.7447,  ...
+1.7104 + 1i*1.73905, 1.69018 + 1i*1.73284, 1.66961 + 1i*1.72607, 1.64871 + 1i*1.71872, 1.62748 + 1i*1.71077,  ...
+1.60592 + 1i*1.7022, 1.58404 + 1i*1.69301, 1.56183 + 1i*1.68318, 1.53931 + 1i*1.67269, 1.51647 + 1i*1.66152,  ...
+1.49332 + 1i*1.64967, 1.46986 + 1i*1.63711, 1.4461 + 1i*1.62382, 1.42203 + 1i*1.60981, 1.39767 + 1i*1.59504,  ...
+1.37302 + 1i*1.5795, 1.34807 + 1i*1.56318, 1.32284 + 1i*1.54607, 1.29732 + 1i*1.52814, 1.27152 + 1i*1.50939,  ...
+1.24544 + 1i*1.4898, 1.21908 + 1i*1.46935, 1.19245 + 1i*1.44804, 1.16554 + 1i*1.42584, 1.13835 + 1i*1.40275,  ...
+1.11089 + 1i*1.37874, 1.08316 + 1i*1.35382, 1.05516 + 1i*1.32796, 1.02688 + 1i*1.30115, 0.998327 + 1i*1.27338,  ...
+0.969494 + 1i*1.24464, 0.940381 + 1i*1.21491, 0.910984 + 1i*1.18419, 0.881297 + 1i*1.15247, 0.851316 + 1i*1.11973,  ...
+0.821036 + 1i*1.08597, 0.790448 + 1i*1.05117, 0.759545 + 1i*1.01533, 0.728317 + 1i*0.978442, 0.696755 + 1i*0.940491,  ...
+0.664847 + 1i*0.901475, 0.63258 + 1i*0.861386, 0.599941 + 1i*0.820218, 0.566914 + 1i*0.777967, 0.533481 + 1i*0.734628,  ...
+0.499626 + 1i*0.690197, 0 + 1i*0, 0 + 1i*0, 0 + 1i*0, 0 + 1i*0,  ...
+0 + 1i*0, 0 + 1i*0, 0 + 1i*0, 0 + 1i*0, 0 + 1i*0,  ...
+0 + 1i*0, 0 + 1i*0, 0 + 1i*0, 0 + 1i*0, 0 + 1i*0,  ...
+0 + 1i*0, 0 + 1i*0, 0 + 1i*0, 0 + 1i*0, 0 + 1i*0,  ...
+0 + 1i*0, 0 + 1i*0, 0 + 1i*0, 0 + 1i*0, 0 + 1i*0,  ...
+0 + 1i*0];
+figure;subplot(2,1,1); hold on;plot(abs(CH0_4514), 'DisplayName', 'CH0_4514');title('Channel Frequency Response Gain'); legend; grid on;
+subplot(2,1,2); hold on;plot(angle(CH0_4514), 'DisplayName', 'CH0_4514');title('Channel Frequency Response Phase'); legend; grid on;
+figure;plot(real(CH0_4514), imag(CH0_4514), '.', 'DisplayName', 'CH0_4514'); hold on;title('CFR'); xlabel('Real'); ylabel('Imag'); axis equal; legend; grid on;
 
-figure;subplot(2,1,1); hold on;plot(abs(CH1_4515), 'DisplayName', 'CH1_4515');title('Channel Frequency Response Gain'); legend; grid on;
-subplot(2,1,2); hold on;plot(angle(CH1_4515), 'DisplayName', 'CH1_4515');title('Channel Frequency Response Phase'); legend; grid on;
-figure;plot(real(CH1_4515), imag(CH1_4515), '.', 'DisplayName', 'CH1_4515'); hold on;title('CFR'); xlabel('Real'); ylabel('Imag'); axis equal; legend; grid on;
+figure;subplot(2,1,1); hold on;plot(abs(CH1_4514), 'DisplayName', 'CH1_4514');title('Channel Frequency Response Gain'); legend; grid on;
+subplot(2,1,2); hold on;plot(angle(CH1_4514), 'DisplayName', 'CH1_4514');title('Channel Frequency Response Phase'); legend; grid on;
+figure;plot(real(CH1_4514), imag(CH1_4514), '.', 'DisplayName', 'CH1_4514'); hold on;title('CFR'); xlabel('Real'); ylabel('Imag'); axis equal; legend; grid on;
 

diff --git a/matlab/music_125MHz_M256_1m_30deg/cbdata.m b/matlab/music_125MHz_M256_1m_30deg/cbdata.m
@@ -1,80 +1,80 @@
 % Auto-generated MATLAB script
 clear;
-CH1_4515 = [ ...
--1.88489 + 1i*0.0230662, -0.82461 + 1i*-0.0149681, -0.657152 + 1i*-0.0131191, 1.09989 + 1i*-0.0169925, 1.01222 + 1i*-0.00161117,  ...
-1.43069 + 1i*0.0475674, 0.901358 + 1i*0.00266859, 0.661954 + 1i*-0.00605192, -1.17795 + 1i*-0.011232, -0.831552 + 1i*-0.025131,  ...
-1.05279 + 1i*-0.0223748, -0.847607 + 1i*-0.0104947, 0.659915 + 1i*-0.0142676, 1.17821 + 1i*-0.0169775, -0.938756 + 1i*-0.0194365,  ...
--1.27045 + 1i*0.0199275, -1.08014 + 1i*-0.0105504, -1.19963 + 1i*0.00656254, 1.58217 + 1i*-0.00718795, 0.485058 + 1i*0.0253723,  ...
--1.17263 + 1i*-0.0384302, -0.848622 + 1i*0.00368973, -1.01297 + 1i*-0.000821024, -0.609522 + 1i*-0.016238, 1.86621 + 1i*0.0169155,  ...
--0.971155 + 1i*0.0249433, -1.10099 + 1i*-0.0146186, 0.722197 + 1i*-0.0133648, 1.07272 + 1i*-0.0143285, -1.14639 + 1i*-0.0137703,  ...
--1.04916 + 1i*0.00620194, 1.02972 + 1i*-0.036057, 0.284188 + 1i*-0.00191813, -1.08329 + 1i*-0.0320774, 0.299091 + 1i*-0.0010594,  ...
--0.483648 + 1i*-0.02003, -1.15442 + 1i*0.00218868, -0.542258 + 1i*-0.0128586, -1.30769 + 1i*-0.0120593, -1.15524 + 1i*0.00588554,  ...
--0.437201 + 1i*-0.00753302, 0.338199 + 1i*0.0210597, -0.295993 + 1i*0.00598243, 1.35798 + 1i*0.0102493, -1.10407 + 1i*-0.0221009,  ...
--0.515161 + 1i*-0.00784776, 0.756192 + 1i*0.00104707, -1.28162 + 1i*-0.00898718, 0.00573899 + 1i*-0.0293951, -1.22789 + 1i*-0.0163871,  ...
--0.770574 + 1i*-0.0364737, -1.09067 + 1i*0.0037362, 0.651419 + 1i*-0.0197485, -0.111948 + 1i*0.0306385, 0.966108 + 1i*-0.0187426,  ...
-1.37465 + 1i*-0.0189648, 0.96266 + 1i*0.0109912, 0.708251 + 1i*-0.00127781, 0.804445 + 1i*-0.0336171, -0.527866 + 1i*-0.0137087,  ...
-0.77577 + 1i*0.00261045, 0.869032 + 1i*-0.0155168, -0.970402 + 1i*-0.0121445, 0.469659 + 1i*-0.00333576, -0.6336 + 1i*0.0125411,  ...
--0.447969 + 1i*0.00843569, -0.994282 + 1i*0.005401, 0.773705 + 1i*-0.0121135, 0.613842 + 1i*-0.0186749, -0.167112 + 1i*0.00187332,  ...
-0.764286 + 1i*-0.0107494, -0.423625 + 1i*0.013275, -0.175272 + 1i*-0.0033042, -1.28887 + 1i*0.0221216, -0.794245 + 1i*-0.0274301,  ...
-1.2207 + 1i*-0.0185082, -0.713381 + 1i*0.0169118, 0.501228 + 1i*-0.000787757, -0.931209 + 1i*-0.0125985, -0.614851 + 1i*-0.00755223,  ...
--0.397813 + 1i*0.0154421, 1.36987 + 1i*-0.0502361, -2.13696 + 1i*-0.0285666, -1.32363 + 1i*-0.0350709, -1.06652 + 1i*-0.0537246,  ...
--0.54991 + 1i*0.0037965, -0.828296 + 1i*-0.00102849, 1.33103 + 1i*-0.0797389, -1.49767 + 1i*-0.0099866, 0.806006 + 1i*0.0332699,  ...
-1.65568 + 1i*0.0341147, -1.11254 + 1i*-0.0422681, -0.904183 + 1i*-0.0218601, 0.833589 + 1i*0.0392435, 1.45568 + 1i*0.0507835,  ...
-1.53946 + 1i*0.0511803, 0.833565 + 1i*-0.0100113, -0.870617 + 1i*0.0129134, 0.311502 + 1i*0.0263847, 0.881396 + 1i*0.0267141,  ...
--0.98734 + 1i*-0.0265822, -1.43737 + 1i*0.013722, -0.175781 + 1i*-0.0395044, 0.524885 + 1i*0.00987476, -0.998452 + 1i*0.0184001,  ...
-0.864462 + 1i*-0.00248996, -1.35243 + 1i*0.00582187, -0.734968 + 1i*-0.0166116, 0.155491 + 1i*0.00601376, 1.26289 + 1i*-0.0160594,  ...
--0.833509 + 1i*-0.00931312, -0.932964 + 1i*0.0288426, -0.919753 + 1i*0.00746603, -1.19254 + 1i*0.0217563, -0.584025 + 1i*-0.00920922,  ...
-0.775936 + 1i*0.0122264, 0.823803 + 1i*-0.0287856, -0.757752 + 1i*0.0120659, 0.546356 + 1i*0.00573054, 1.03158 + 1i*-0.0269402,  ...
--0.203701 + 1i*-0.00840515, -1.07014 + 1i*0.00425663, 1.15168 + 1i*-0.0435328, 0.419292 + 1i*-0.0259872, -1.41208 + 1i*0.0264184,  ...
-0.191824 + 1i*-0.0140099, -1.08616 + 1i*0.0516956, 1.14796 + 1i*-0.017294, 0.766133 + 1i*0.0142272, 0.627959 + 1i*-0.0137011,  ...
-0.371898 + 1i*0.0279721, -0.670379 + 1i*-0.00477542, 0.558036 + 1i*-0.00503483, 1.39615 + 1i*-0.00666309, -0.728638 + 1i*0.00394754,  ...
--0.8188 + 1i*0.0240833, -1.2867 + 1i*0.0153516, 0.603393 + 1i*0.00372107, -1.5837 + 1i*0.0481994, -0.758808 + 1i*0.0330907,  ...
-0.585743 + 1i*0.00413191, -1.17183 + 1i*0.0520082, 0.965424 + 1i*-0.0100092, -0.0106022 + 1i*-0.00440287, 0.859618 + 1i*0.0237978,  ...
-0.63573 + 1i*-0.00891955, 1.80142 + 1i*-0.0496053, -0.902824 + 1i*0.0360136, -0.0430705 + 1i*0.0287691, 0.913761 + 1i*-0.0176189,  ...
-0.664909 + 1i*-0.0230568, 0.952868 + 1i*0.0189898, -1.60922 + 1i*0.0366871, -0.361289 + 1i*-0.0301732, 1.22318 + 1i*0.000344038,  ...
--0.578084 + 1i*0.0114431, -1.55011 + 1i*0.0433876, 1.99558 + 1i*-0.00832464, -1.09141 + 1i*0.0253712, 1.00555 + 1i*-0.0573957,  ...
--0.627192 + 1i*0.0213513, 0.841499 + 1i*0.00767305, -1.59995 + 1i*0.0490483, 0.64228 + 1i*0.00666152, 1.09494 + 1i*-0.0150114,  ...
-0.830994 + 1i*-0.0192271, 0.804074 + 1i*0.0295109, 1.41736 + 1i*-0.0275569, 1.55541 + 1i*0.0174249, 0.81376 + 1i*0.028975,  ...
-0.91507 + 1i*-0.00694767, 1.21669 + 1i*-0.0328604, -1.53036 + 1i*0.00735334, 1.33327 + 1i*-0.0414729, 1.28396 + 1i*-0.0210625,  ...
-1.08078 + 1i*0.00902389, 1.17065 + 1i*0.0201392, -0.784637 + 1i*0.0400191];
-CH0_4516 = [ ...
--1.85659 + 1i*0.0468151, -0.838069 + 1i*0.00014711, -0.617743 + 1i*-0.0119363, 1.12628 + 1i*-0.0645123, 1.01076 + 1i*-0.0543756,  ...
-1.40679 + 1i*-0.0226017, 0.815243 + 1i*-0.0311616, 0.583118 + 1i*-0.031627, -1.22114 + 1i*0.0398173, -0.819257 + 1i*0.00668779,  ...
-1.00902 + 1i*-0.0438726, -0.846307 + 1i*0.0296203, 0.630304 + 1i*-0.0241414, 1.12657 + 1i*-0.0565109, -0.988646 + 1i*0.034379,  ...
--1.24709 + 1i*0.0637021, -1.08318 + 1i*0.0277419, -1.14443 + 1i*0.0498121, 1.53141 + 1i*-0.0623442, 0.471319 + 1i*-0.00736336,  ...
--1.23672 + 1i*0.02827, -0.838509 + 1i*0.0444057, -0.979077 + 1i*0.0344801, -0.563016 + 1i*0.00205804, 1.83144 + 1i*-0.0595547,  ...
--0.967513 + 1i*0.039087, -1.12274 + 1i*0.0355767, 0.722588 + 1i*-0.0268217, 1.01645 + 1i*-0.0308663, -1.16872 + 1i*0.0457582,  ...
--1.04004 + 1i*0.0377944, 1.02407 + 1i*-0.0528369, 0.267871 + 1i*-0.0153866, -1.09953 + 1i*0.0358278, 0.273837 + 1i*-0.00346513,  ...
--0.515395 + 1i*-0.00246524, -1.15008 + 1i*0.048075, -0.559661 + 1i*0.0030812, -1.28276 + 1i*0.0379665, -1.08725 + 1i*0.0326623,  ...
--0.401553 + 1i*-0.0124554, 0.393056 + 1i*0.0046039, -0.25574 + 1i*0.0197145, 1.37226 + 1i*-0.0209531, -1.12891 + 1i*0.000944216,  ...
--0.509331 + 1i*-0.00698001, 0.766472 + 1i*0.00378571, -1.30068 + 1i*0.018056, -0.0200481 + 1i*0.0151131, -1.22054 + 1i*-0.0188616,  ...
--0.783526 + 1i*-0.00310613, -1.01445 + 1i*-0.00463762, 0.724152 + 1i*-0.012639, -0.0308293 + 1i*0.00479283, 1.01804 + 1i*-0.00628336,  ...
-1.38436 + 1i*-0.00727657, 0.99475 + 1i*0.0218132, 0.673264 + 1i*0.0186938, 0.76575 + 1i*0.00289836, -0.525728 + 1i*-0.00395465,  ...
-0.803909 + 1i*0.0108057, 0.835841 + 1i*-0.00534208, -1.0019 + 1i*-0.0167347, 0.469806 + 1i*0.0103565, -0.622619 + 1i*-0.00694231,  ...
--0.468801 + 1i*0.0095461, -0.939874 + 1i*-0.0131682, 0.824753 + 1i*0.02821, 0.61555 + 1i*-0.0131533, -0.194986 + 1i*-0.00060947,  ...
-0.777594 + 1i*0.0213768, -0.398572 + 1i*0.00835685, -0.233599 + 1i*-0.00794476, -1.30615 + 1i*-0.0146344, -0.809508 + 1i*-0.0182137,  ...
-1.25928 + 1i*0.011609, -0.695769 + 1i*0.00292076, 0.504056 + 1i*0.0143444, -0.978678 + 1i*-0.0298666, -0.634427 + 1i*-0.0251699,  ...
--0.424836 + 1i*0.0125204, 1.30661 + 1i*0.0175359, -2.2293 + 1i*-0.0724744, -1.43522 + 1i*-0.0385479, -1.06967 + 1i*-0.0359602,  ...
--0.550593 + 1i*-0.00551291, -0.774593 + 1i*-0.00740789, 1.32316 + 1i*0.00641952, -1.52573 + 1i*-0.0601471, 0.813968 + 1i*0.00595337,  ...
-1.61185 + 1i*-0.0314959, -1.07386 + 1i*-0.00965267, -0.871439 + 1i*0.000513368, 0.883089 + 1i*0.00372608, 1.48703 + 1i*0.0258687,  ...
-1.54695 + 1i*0.0461033, 0.760958 + 1i*0.0055514, -0.935872 + 1i*-0.0134249, 0.293373 + 1i*0.0105676, 0.852601 + 1i*0.0224316,  ...
--1.01487 + 1i*-0.0263331, -1.46656 + 1i*-0.0268432, -0.166674 + 1i*-0.0192639, 0.505198 + 1i*0.0208243, -0.980259 + 1i*-0.0121135,  ...
-0.872631 + 1i*0.0129555, -1.34015 + 1i*-0.0401627, -0.712688 + 1i*-0.0269724, 0.196595 + 1i*-0.00147026, 1.24222 + 1i*0.0270438,  ...
--0.831281 + 1i*-0.0357175, -0.917289 + 1i*-0.0200571, -0.916934 + 1i*-0.0287594, -1.1917 + 1i*-0.02909, -0.52889 + 1i*-0.0208145,  ...
-0.815337 + 1i*0.033399, 0.814348 + 1i*0.0264267, -0.740879 + 1i*-0.0458997, 0.589592 + 1i*0.0191339, 0.990461 + 1i*0.0249949,  ...
--0.224083 + 1i*-0.0145932, -1.05919 + 1i*-0.0523712, 1.10121 + 1i*0.0263994, 0.389827 + 1i*0.00420418, -1.42613 + 1i*-0.0301559,  ...
-0.179031 + 1i*-0.000834172, -1.05744 + 1i*-0.0197437, 1.18902 + 1i*0.0412117, 0.787534 + 1i*0.0404863, 0.592129 + 1i*0.0262741,  ...
-0.36755 + 1i*0.0143694, -0.707868 + 1i*-0.0208889, 0.545168 + 1i*0.0231778, 1.38084 + 1i*0.0425582, -0.799718 + 1i*-0.0276425,  ...
--0.825916 + 1i*-0.0167087, -1.28544 + 1i*-0.0315769, 0.592981 + 1i*-0.00238852, -1.56955 + 1i*-0.00707603, -0.725343 + 1i*0.0065883,  ...
-0.648799 + 1i*-0.0108437, -1.10741 + 1i*-0.00180974, 0.99035 + 1i*0.0251616, 0.00976019 + 1i*-0.000858569, 0.86836 + 1i*0.0208861,  ...
-0.635915 + 1i*0.000469795, 1.75116 + 1i*-0.00627483, -0.880694 + 1i*0.00181239, 0.00606285 + 1i*-0.000264542, 0.927671 + 1i*-0.0123159,  ...
-0.650569 + 1i*-0.00887367, 0.923713 + 1i*-0.00177745, -1.58675 + 1i*0.0238368, -0.354331 + 1i*-0.0110546, 1.19694 + 1i*-0.00708501,  ...
--0.546208 + 1i*0.0261191, -1.5277 + 1i*0.0338089, 2.00793 + 1i*-0.0237841, -1.07356 + 1i*0.00400035, 0.952699 + 1i*-0.0144529,  ...
--0.579034 + 1i*0.0147482, 0.87169 + 1i*-0.0223204, -1.51188 + 1i*0.0416387, 0.710118 + 1i*-0.0179786, 1.12318 + 1i*-0.0555977,  ...
-0.851055 + 1i*-0.02469, 0.810304 + 1i*-0.0218009, 1.41934 + 1i*-0.0669021, 1.55502 + 1i*-0.0498638, 0.831374 + 1i*-0.0160429,  ...
-0.86187 + 1i*-0.0353814, 1.1937 + 1i*-0.0540045, -1.52809 + 1i*0.0326286, 1.34783 + 1i*-0.0561687, 1.27927 + 1i*-0.053501,  ...
-1.03992 + 1i*-0.017975, 1.09931 + 1i*-0.0170737, -0.851489 + 1i*0.0408434];
-figure;plot(real(CH1_4515), imag(CH1_4515), '.', 'DisplayName', 'CH1_4515'); hold on;
-plot(real(CH0_4516), imag(CH0_4516), '.', 'DisplayName', 'CH0_4516'); hold on;
+CH1_4514 = [ ...
+-1.87772 + 1i*-0.0222677, -0.820871 + 1i*-0.0412716, -0.644 + 1i*-0.0325363, 1.12103 + 1i*0.0063266, 1.02161 + 1i*0.0217311,  ...
+1.40809 + 1i*0.0634232, 0.873025 + 1i*0.0238584, 0.655454 + 1i*0.0167044, -1.18864 + 1i*-0.0425664, -0.806715 + 1i*-0.041255,  ...
+1.02948 + 1i*0.0151328, -0.839802 + 1i*-0.0452347, 0.653807 + 1i*-0.0053444, 1.16918 + 1i*0.0257474, -0.943893 + 1i*-0.0384898,  ...
+-1.27316 + 1i*-0.0276599, -1.08455 + 1i*-0.0369519, -1.18736 + 1i*-0.0278557, 1.58622 + 1i*0.033689, 0.464847 + 1i*0.0395387,  ...
+-1.18117 + 1i*-0.0742038, -0.866786 + 1i*-0.000364007, -1.00452 + 1i*-0.0182609, -0.580905 + 1i*-0.0468626, 1.85131 + 1i*0.0750395,  ...
+-0.982535 + 1i*-0.00470538, -1.09797 + 1i*-0.0646815, 0.726758 + 1i*0.0177106, 1.04588 + 1i*0.0223024, -1.15197 + 1i*-0.0395745,  ...
+-1.04511 + 1i*-0.0327459, 1.0415 + 1i*0.00455936, 0.28255 + 1i*-0.0048215, -1.08673 + 1i*-0.0494618, 0.296968 + 1i*-0.00154516,  ...
+-0.486415 + 1i*-0.0302781, -1.16368 + 1i*-0.0136439, -0.547055 + 1i*-0.0264481, -1.30475 + 1i*-0.0262594, -1.14761 + 1i*-0.00711284,  ...
+-0.415441 + 1i*-0.0197979, 0.351693 + 1i*0.0210384, -0.284341 + 1i*0.0236165, 1.34939 + 1i*0.0230736, -1.10147 + 1i*-0.0232081,  ...
+-0.514523 + 1i*-0.00537896, 0.755337 + 1i*-0.000451598, -1.29268 + 1i*-0.0293443, 0.0105447 + 1i*-0.0289628, -1.20534 + 1i*-0.0143706,  ...
+-0.77614 + 1i*-0.0345466, -1.08055 + 1i*-0.00116748, 0.674874 + 1i*-0.00671663, -0.101003 + 1i*0.0289287, 0.983783 + 1i*-0.0217159,  ...
+1.38335 + 1i*-0.00476785, 0.967533 + 1i*0.0113054, 0.699166 + 1i*0.000735555, 0.790617 + 1i*-0.0126003, -0.512975 + 1i*-0.0178984,  ...
+0.791159 + 1i*0.00560372, 0.863689 + 1i*-0.017967, -0.949588 + 1i*-0.00569981, 0.470472 + 1i*-0.0111221, -0.618788 + 1i*0.030211,  ...
+-0.443271 + 1i*0.0196258, -0.965739 + 1i*0.0091052, 0.779454 + 1i*-0.000282642, 0.623459 + 1i*-0.0314101, -0.164324 + 1i*-0.00306964,  ...
+0.761788 + 1i*-0.00905857, -0.404823 + 1i*0.0199767, -0.180993 + 1i*-0.012981, -1.3002 + 1i*0.0269634, -0.779708 + 1i*0.00381408,  ...
+1.24291 + 1i*-0.0330395, -0.707892 + 1i*0.0631227, 0.522422 + 1i*0.000643818, -0.951499 + 1i*0.00692253, -0.586069 + 1i*-0.0106969,  ...
+-0.401888 + 1i*0.023122, 1.38131 + 1i*-0.0493455, -2.14911 + 1i*0.0143402, -1.36486 + 1i*-0.0109064, -1.08609 + 1i*0.00855698,  ...
+-0.568494 + 1i*0.0121421, -0.841983 + 1i*0.0210681, 1.32281 + 1i*-0.0523167, -1.5058 + 1i*-0.0159159, 0.790519 + 1i*0.0763881,  ...
+1.63989 + 1i*0.0810747, -1.08682 + 1i*-0.0365392, -0.916819 + 1i*-0.00861473, 0.855872 + 1i*0.0443486, 1.46449 + 1i*0.0531261,  ...
+1.5308 + 1i*0.0620019, 0.80857 + 1i*-0.00453076, -0.882897 + 1i*0.00556232, 0.317162 + 1i*0.0247776, 0.876815 + 1i*0.0294095,  ...
+-0.990327 + 1i*0.00296015, -1.43817 + 1i*0.00287699, -0.182439 + 1i*-0.0286523, 0.511569 + 1i*0.00277243, -0.998431 + 1i*0.0408151,  ...
+0.863711 + 1i*-0.0210852, -1.35348 + 1i*0.0632586, -0.727254 + 1i*-0.0203776, 0.156403 + 1i*0.00917398, 1.26082 + 1i*-0.0652983,  ...
+-0.82902 + 1i*0.0160281, -0.921252 + 1i*0.0691531, -0.909662 + 1i*0.0504531, -1.19437 + 1i*0.0664359, -0.577802 + 1i*0.0242186,  ...
+0.799078 + 1i*-0.0141717, 0.815511 + 1i*-0.0524701, -0.747125 + 1i*0.0280654, 0.558421 + 1i*-0.02568, 1.02189 + 1i*-0.0693467,  ...
+-0.208137 + 1i*-0.0102154, -1.04283 + 1i*0.0305148, 1.13465 + 1i*-0.088642, 0.415943 + 1i*-0.0336063, -1.43209 + 1i*0.0743635,  ...
+0.186424 + 1i*-0.0282112, -1.07951 + 1i*0.0769384, 1.16912 + 1i*-0.0628742, 0.762751 + 1i*-0.0160089, 0.624057 + 1i*-0.0366547,  ...
+0.368741 + 1i*0.00695527, -0.682941 + 1i*0.033674, 0.544923 + 1i*-0.0215406, 1.38905 + 1i*-0.0588558, -0.749737 + 1i*0.0228175,  ...
+-0.81207 + 1i*0.0273626, -1.2751 + 1i*0.0570772, 0.594811 + 1i*-0.0307562, -1.58291 + 1i*0.10149, -0.750657 + 1i*0.0413618,  ...
+0.605603 + 1i*-0.0191101, -1.15906 + 1i*0.0656364, 0.959632 + 1i*-0.0342801, -0.0120807 + 1i*-0.00463501, 0.854192 + 1i*-0.0188292,  ...
+0.647328 + 1i*-0.0153727, 1.7872 + 1i*-0.0676212, -0.896577 + 1i*0.0382267, -0.0277525 + 1i*0.0237276, 0.922829 + 1i*-0.0450103,  ...
+0.659672 + 1i*-0.0253686, 0.943415 + 1i*-0.00236535, -1.61325 + 1i*0.0502858, -0.350118 + 1i*-0.0364329, 1.22006 + 1i*0.00522159,  ...
+-0.578396 + 1i*0.00874616, -1.54896 + 1i*0.0528802, 1.99704 + 1i*-0.0119971, -1.09215 + 1i*0.024416, 0.994898 + 1i*-0.0439837,  ...
+-0.629705 + 1i*0.013177, 0.845208 + 1i*0.0125967, -1.57864 + 1i*0.0251972, 0.662519 + 1i*0.00996095, 1.1115 + 1i*-0.0179412,  ...
+0.843302 + 1i*-0.00367094, 0.805905 + 1i*0.0275721, 1.42011 + 1i*-0.0170868, 1.56686 + 1i*0.0292452, 0.810716 + 1i*0.0356768,  ...
+0.914659 + 1i*0.0091933, 1.21167 + 1i*-0.00235603, -1.51699 + 1i*-0.0246218, 1.35145 + 1i*-0.00105399, 1.28572 + 1i*0.0117843,  ...
+1.06142 + 1i*0.0367199, 1.14825 + 1i*0.0322172, -0.846481 + 1i*0.0378025];
+CH0_4514 = [ ...
+-1.84419 + 1i*-0.0125481, -0.829121 + 1i*-0.0265476, -0.662546 + 1i*-0.0240645, 1.08297 + 1i*0.0113003, 0.978851 + 1i*0.00498376,  ...
+1.43309 + 1i*0.0543368, 0.858516 + 1i*0.00601384, 0.634332 + 1i*0.0265684, -1.19184 + 1i*-0.0225349, -0.849675 + 1i*-0.0239136,  ...
+1.03091 + 1i*-0.00250465, -0.852869 + 1i*-0.0174648, 0.646943 + 1i*0.00377172, 1.15626 + 1i*0.0183273, -0.946605 + 1i*-0.0232622,  ...
+-1.25093 + 1i*0.000454411, -1.10317 + 1i*-0.0440791, -1.18288 + 1i*-0.0178767, 1.55077 + 1i*0.0228674, 0.493548 + 1i*0.0159165,  ...
+-1.20088 + 1i*-0.0462409, -0.843454 + 1i*-0.0110131, -1.00633 + 1i*-0.0186725, -0.620366 + 1i*-0.0174459, 1.85879 + 1i*0.0303257,  ...
+-0.936296 + 1i*-0.00899599, -1.12215 + 1i*-0.0269146, 0.701764 + 1i*0.00367768, 1.05572 + 1i*-0.00295904, -1.13384 + 1i*-0.0204323,  ...
+-1.03418 + 1i*-6.53118e-05, 1.0123 + 1i*-0.019394, 0.287627 + 1i*-0.0116115, -1.09442 + 1i*-0.0369175, 0.293018 + 1i*-0.00301014,  ...
+-0.500327 + 1i*-0.0238883, -1.14523 + 1i*-0.0221875, -0.558222 + 1i*-0.0329999, -1.30218 + 1i*-0.0175158, -1.13292 + 1i*-0.0127448,  ...
+-0.44142 + 1i*-0.0289945, 0.34832 + 1i*0.0137186, -0.290246 + 1i*-0.0181998, 1.38674 + 1i*0.006202, -1.131 + 1i*-0.0431811,  ...
+-0.52453 + 1i*-0.0371252, 0.780619 + 1i*0.00511042, -1.27649 + 1i*-0.0325068, -0.0156874 + 1i*-0.00207262, -1.24938 + 1i*-0.0238285,  ...
+-0.787001 + 1i*-0.041046, -1.05947 + 1i*-0.0141099, 0.65222 + 1i*-0.0116883, -0.0930639 + 1i*0.000693388, 0.986552 + 1i*-0.00830653,  ...
+1.35603 + 1i*-0.0206792, 1.00567 + 1i*0.00797816, 0.714475 + 1i*0.00218233, 0.807075 + 1i*-0.016036, -0.524722 + 1i*-0.00124985,  ...
+0.814691 + 1i*-0.00637117, 0.866391 + 1i*-0.0241061, -0.984924 + 1i*-0.00519497, 0.498015 + 1i*-0.0070296, -0.615115 + 1i*0.0137361,  ...
+-0.441832 + 1i*0.00552922, -0.975535 + 1i*0.0204255, 0.792341 + 1i*-0.0151298, 0.610768 + 1i*-0.0289161, -0.177164 + 1i*-0.00657998,  ...
+0.797209 + 1i*-0.0141275, -0.40108 + 1i*0.0320254, -0.191274 + 1i*-0.0106589, -1.28275 + 1i*0.0368238, -0.805474 + 1i*-0.00433399,  ...
+1.25593 + 1i*-0.0179198, -0.705541 + 1i*0.0152218, 0.537441 + 1i*-0.0054108, -0.970726 + 1i*0.00299211, -0.610903 + 1i*0.0107767,  ...
+-0.386575 + 1i*0.0132341, 1.38127 + 1i*-0.0347757, -2.21547 + 1i*0.0359384, -1.40258 + 1i*-0.0180453, -1.12256 + 1i*-0.00833333,  ...
+-0.531731 + 1i*0.00169443, -0.817396 + 1i*0.0330312, 1.3079 + 1i*-0.0878046, -1.54801 + 1i*0.0461998, 0.810756 + 1i*0.0051153,  ...
+1.66454 + 1i*0.00979546, -1.11113 + 1i*-0.00126808, -0.936042 + 1i*-0.0252075, 0.840823 + 1i*0.00495021, 1.47445 + 1i*0.0183263,  ...
+1.57299 + 1i*0.0158787, 0.81896 + 1i*-0.0102636, -0.877972 + 1i*-0.000710897, 0.30784 + 1i*-0.00216221, 0.885356 + 1i*-0.00935963,  ...
+-0.995213 + 1i*0.00498494, -1.43899 + 1i*0.035663, -0.183329 + 1i*-0.0241731, 0.536292 + 1i*-0.0224135, -0.988722 + 1i*0.0235756,  ...
+0.861711 + 1i*-0.0226861, -1.36026 + 1i*0.0171154, -0.72699 + 1i*0.0101894, 0.146026 + 1i*-0.0183783, 1.26435 + 1i*-0.0414327,  ...
+-0.836483 + 1i*0.0137267, -0.942845 + 1i*0.0250169, -0.906598 + 1i*0.0328731, -1.20149 + 1i*0.0366481, -0.594539 + 1i*0.000246391,  ...
+0.779675 + 1i*-0.0126533, 0.803875 + 1i*-0.0318479, -0.749469 + 1i*0.00585358, 0.558166 + 1i*-0.0142674, 1.0332 + 1i*-0.0411611,  ...
+-0.194575 + 1i*0.00847463, -1.06027 + 1i*0.0336033, 1.11723 + 1i*-0.047891, 0.40486 + 1i*-0.0176394, -1.40819 + 1i*0.0354771,  ...
+0.189748 + 1i*-0.0183755, -1.0627 + 1i*0.0399893, 1.16737 + 1i*-0.00787796, 0.788172 + 1i*-0.00062912, 0.631689 + 1i*-0.00728509,  ...
+0.391924 + 1i*0.0103421, -0.6724 + 1i*-0.00377878, 0.559744 + 1i*-0.00350341, 1.41831 + 1i*-0.0166974, -0.746509 + 1i*-0.00271649,  ...
+-0.802355 + 1i*0.0272173, -1.29335 + 1i*0.0207223, 0.619886 + 1i*-0.0201979, -1.56996 + 1i*0.0414634, -0.746378 + 1i*0.0436592,  ...
+0.612299 + 1i*-0.0104363, -1.13512 + 1i*0.0298914, 0.959482 + 1i*-0.00865347, -0.0139709 + 1i*0.00117125, 0.864423 + 1i*0.0130906,  ...
+0.633954 + 1i*-0.0065547, 1.78189 + 1i*-0.0331296, -0.884308 + 1i*0.0374997, -0.0148724 + 1i*0.0147096, 0.903911 + 1i*-0.0133756,  ...
+0.66764 + 1i*-0.0147276, 0.968082 + 1i*0.0072954, -1.58922 + 1i*0.0364725, -0.386211 + 1i*-0.00379817, 1.23228 + 1i*0.000529207,  ...
+-0.540217 + 1i*0.0378381, -1.54513 + 1i*0.00890332, 2.00615 + 1i*0.016953, -1.08157 + 1i*-0.00788465, 0.978798 + 1i*-0.0211044,  ...
+-0.593978 + 1i*0.0362597, 0.843107 + 1i*0.0166758, -1.56236 + 1i*0.0265488, 0.657808 + 1i*0.0107657, 1.08852 + 1i*-0.00205103,  ...
+0.813073 + 1i*0.00682114, 0.807989 + 1i*0.0160171, 1.41495 + 1i*0.00869986, 1.56349 + 1i*0.0266652, 0.829441 + 1i*0.0369117,  ...
+0.909202 + 1i*0.00767468, 1.21838 + 1i*0.0110312, -1.53602 + 1i*-0.011481, 1.32093 + 1i*0.0116561, 1.26711 + 1i*0.00880107,  ...
+1.0818 + 1i*0.0193157, 1.16503 + 1i*0.0242006, -0.748576 + 1i*0.0070476];
+figure;plot(real(CH1_4514), imag(CH1_4514), '.', 'DisplayName', 'CH1_4514'); hold on;
+plot(real(CH0_4514), imag(CH0_4514), '.', 'DisplayName', 'CH0_4514'); hold on;
 title('Received Data'); xlabel('Real'); ylabel('Imag'); axis equal; legend; grid on;
 
